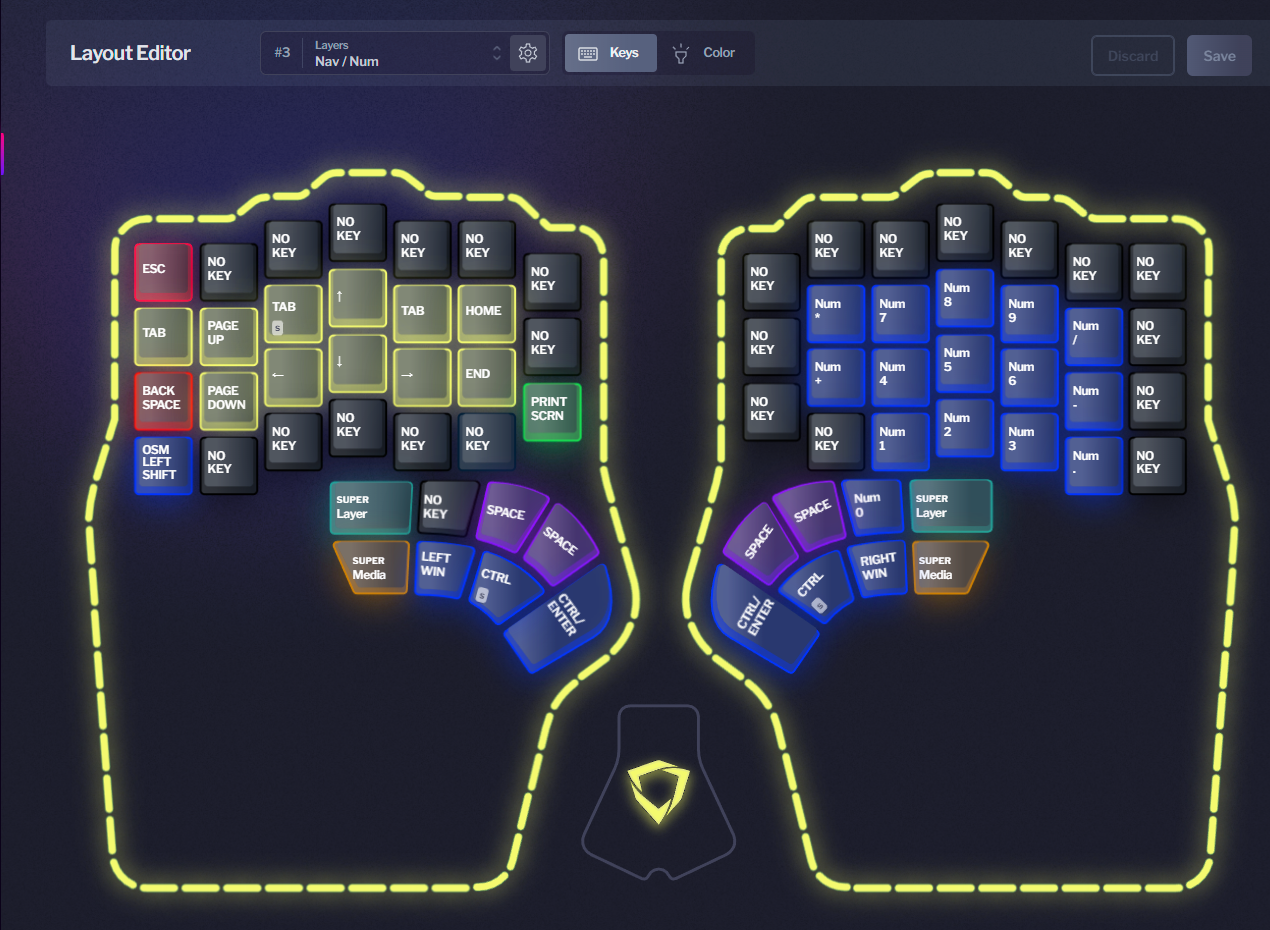
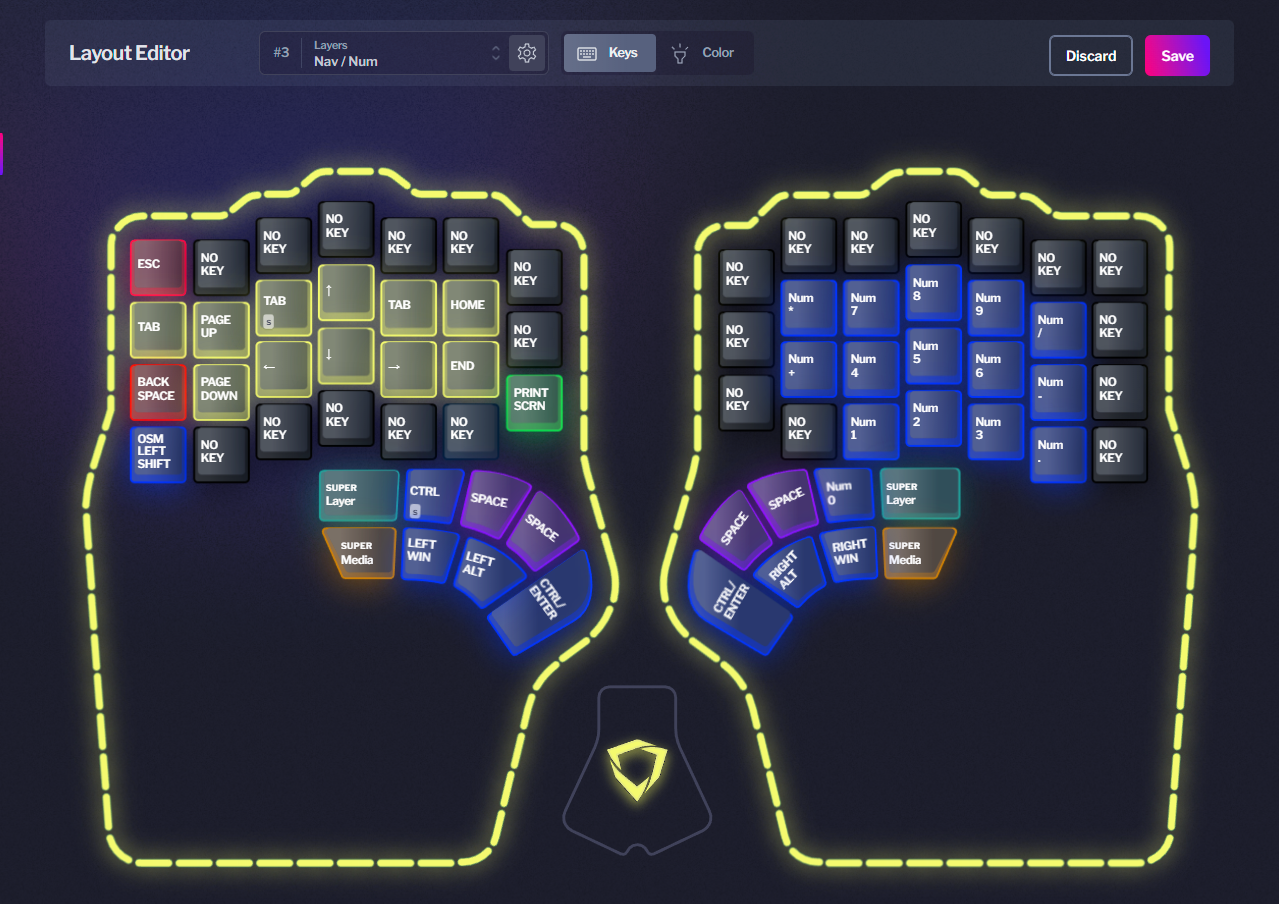
add ALT modifiers back to thumb clusters. add CTRL+Shift to L cluster

diff --git a/README.md b/README.md
@@ -86,7 +86,7 @@
   <ul>
     <li> Use cases: data insertion, calculation, code / webpage navigation </li>
     <li> Arrow key and numpad placement don't require changing homerow positioning </li>
-    <li> Alt -> Ctrl + Shift for quick text selection </li>
+    <li> Add Ctrl + Shift to left thumb cluster for quick text selection </li>
   </ul>
 </details>
 
